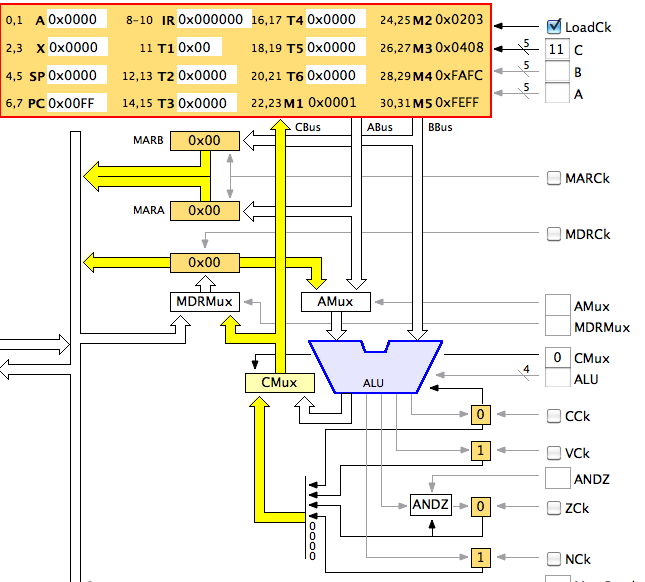
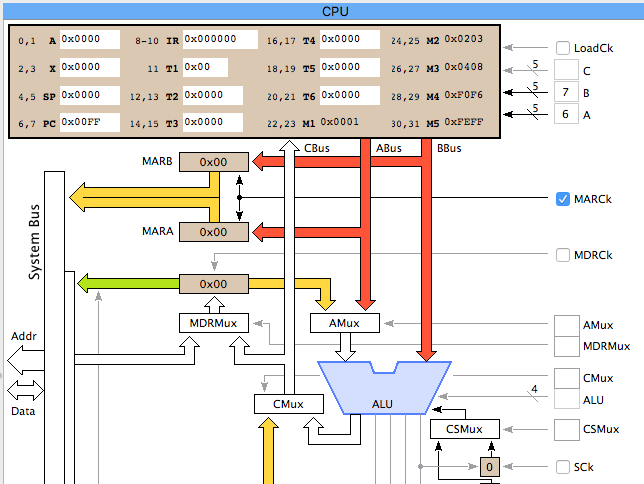
Finished updating Help section.

diff --git a/help/debugging.html b/help/debugging.html
@@ -53,38 +53,30 @@ in the Source Code pane.
 <p>
 <img src="qrc:/help/images/debugger2.png" alt="debugger2" hspace=10 vspace=10>
 <p>
-The corresponding binary statement is highlighted in the Object Code pane.
-<p>
-<img src="qrc:/help/images/debugger3.png" alt="debugger3" hspace=10 vspace=10>
-<p>
 The values from the unit test preconditions are displayed in the CPU pane.
-In the figure, the program counter (PC) is set to 0x00FF and the NZVC bits are set to 1010.
+In the figure, the program counter (PC) is set to 0x00FF and the shadow carry bit S is set to 0.
 The byte at memory address 0xFF is set to 0xAB, which is not shown in the figure.
 <p>
 <img src="qrc:/help/images/debugger4.png" alt="debugger4" hspace=10 vspace=10>
 <p>
 In the above figure, the control widgets also correspond to the statement that is about to execute.
-In particular, CMux is set to 0, which selects the NZVC bits to go through the multiplexer,
-C is set to 11, which specifies that the the NZVC bits will be stored into register T1,
-and LoadCk is checked, which will clock those values into the register bank.
+In particular, A is set to 6, which puts the most significant byte of PC on the ABus,
+B is set to 7, which puts the least significant byte of PC on the BBus,
+and MARCk is checked, which will clock those values into the memory address register MARA and MARB.
 <p>
 When you click the Clock button, one cycle executes.
 The highlighted line in the source pane is now the statement <i>that will be executed next</i>.
 <p>
 <img src="qrc:/help/images/debugger5.png" alt="debugger5" hspace=10 vspace=10>
 <p>
-The corresponding statement in the object code pane is also highlighted.
-<p>
-<img src="qrc:/help/images/debugger6.png" alt="debugger6" hspace=10 vspace=10>
-<p>
 The CPU pane shows the effect of the statement that was just executed.
-In the figure, T1 now has the value 0x0A, which is correct because A (hex) equals 1010 (bin),
-and the values of the status bits are NZVC = 1010.
+In the figure, MARA now has the value 0x00 and MARB has 0xFF, which is correct because 0x00FF is the content of PC.
 <p>
 <img src="qrc:/help/images/debugger7.png" alt="debugger7" hspace=10 vspace=10>
 <p>
-Clicking Single Step one more time results in the following figure.
-The MemRead signal is set as specified by the MemRead statement in the next microcode line.
+Clicking Single Step two more times results in the following figure.
+The third consecutive MemRead signal is set as specified by the MemRead statement in cycle 4,
+and the content from the data bus is passing through MDRMux and about to be clocked into MDR.
 <p>
 <img src="qrc:/help/images/debugger8.png" alt="debugger8" hspace=10 vspace=10>
 <p>
